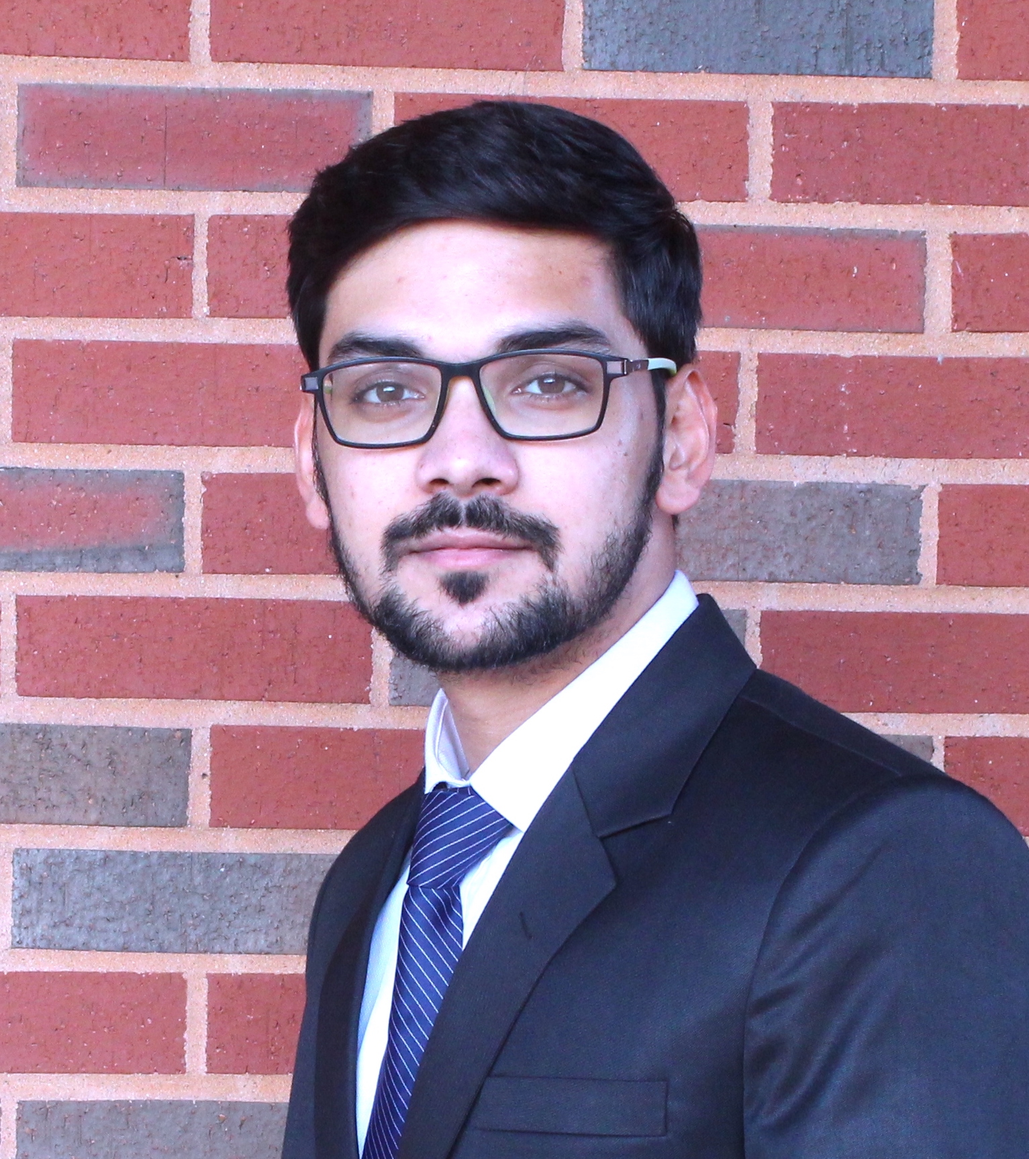
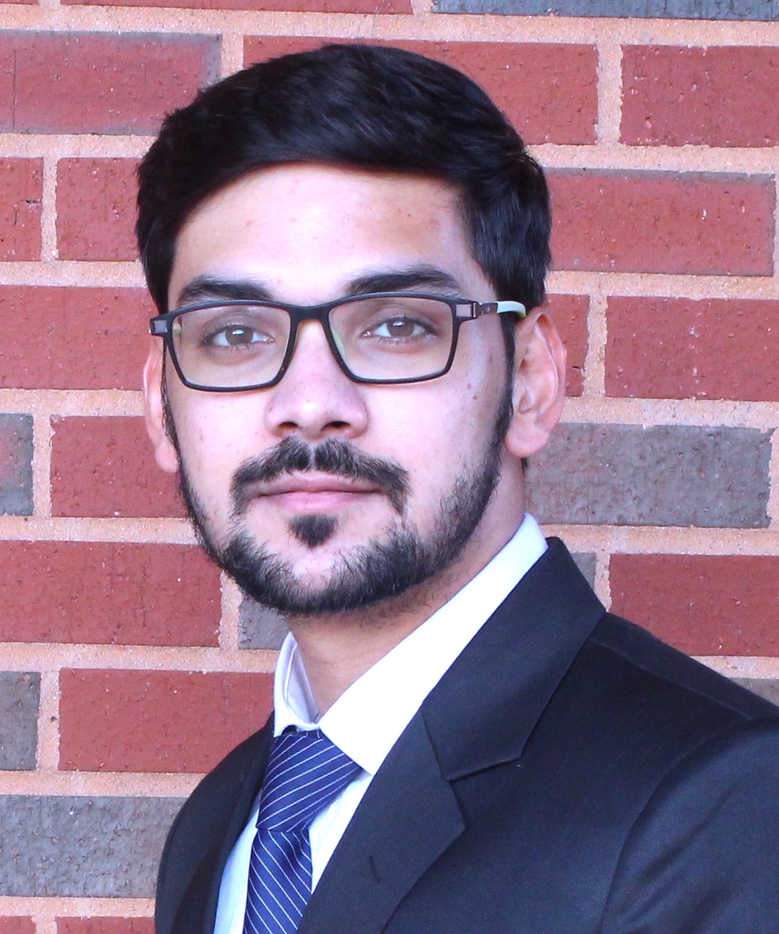
image border

diff --git a/assets/css/style.css b/assets/css/style.css
@@ -9,10 +9,10 @@
   
   
   /* background-size: cover;  */
-  margin: -31px; 
+  /*margin: -31px; 
   margin-left:-7px;
-  border: 6px solid rgba(117, 7, 196, 0.4); 
-  border-radius: 50% !important;
+  border: 6px solid rgba(127, 8, 212, 0.4); 
+  border-radius: 50% !important;*/
 }
 
 .profile-pic img {
